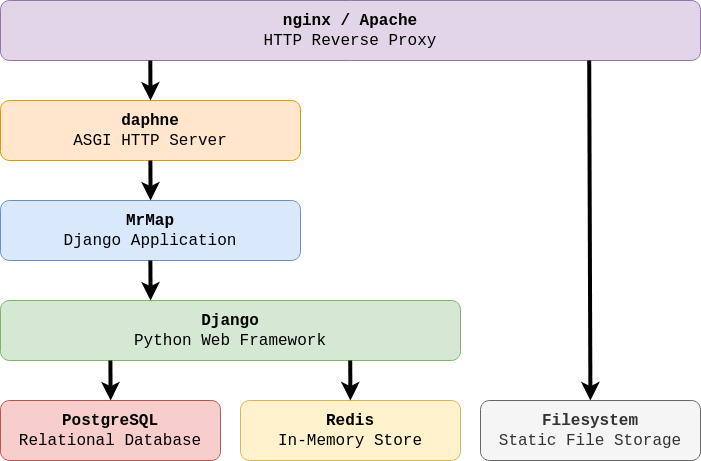
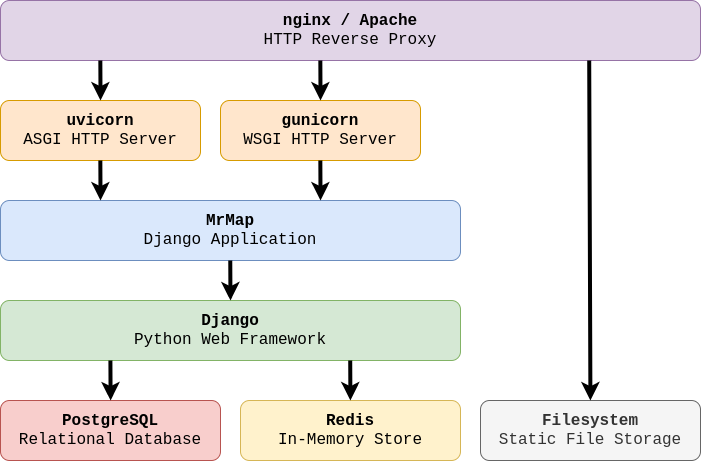
Update documentation

diff --git a/searchindex.js b/searchindex.js
@@ -1,1 +1,1 @@
-Search.setIndex({docnames:["development/communication","development/docker","development/getting-started","development/index","development/project-structure","development/pycharm-configuration","index","installation/0-requirements","installation/1-postgresql","installation/2-redis","installation/3-mapserver","installation/4-mrmap","installation/5-application-server","installation/6-http-server","installation/index","introduction/index"],envversion:{"sphinx.domains.c":1,"sphinx.domains.changeset":1,"sphinx.domains.cpp":1,"sphinx.domains.javascript":1,"sphinx.domains.math":2,"sphinx.domains.python":1,"sphinx.domains.rst":1,"sphinx.domains.std":1,sphinx:55},filenames:["development/communication.rst","development/docker.rst","development/getting-started.rst","development/index.rst","development/project-structure.rst","development/pycharm-configuration.rst","index.rst","installation/0-requirements.rst","installation/1-postgresql.rst","installation/2-redis.rst","installation/3-mapserver.rst","installation/4-mrmap.rst","installation/5-application-server.rst","installation/6-http-server.rst","installation/index.rst","introduction/index.rst"],objects:{},objnames:{},objtypes:{},terms:{"4bd5624546912082a1bd2709d0edc0685f5c7827a278d806a20cf6adea28":2,"case":[2,9,11,15],"catch":2,"default":[5,9,11,13],"function":[4,9,10,15],"goto":5,"import":2,"new":[2,14],"static":[11,13],"var":11,"while":15,For:[1,5,11,13],GIS:15,Not:6,The:[0,2,4,14,15],There:[0,2],Use:[5,9,10],Using:2,WFS:15,WITH:8,WMS:15,With:2,about:3,abov:11,accept:2,access:[1,15],account:2,activ:[2,11,12],adapt:2,add:[2,5,8],adding:11,address:[8,11,13],adjust:[11,12],admin:11,after:[1,11,13],aged:15,agg:10,all:[0,1,2,4,5,8,11,15],allow:2,alreadi:[5,9],also:[2,8,12],alwai:[1,2,4],among:0,ani:[2,14],anoth:13,anyon:2,api:[4,15],app:2,append:2,appli:5,applic:[1,6,10,11,12,13,14],approv:2,apt:[8,9,10,11,13],area:15,argument:2,arrang:4,aspect:15,assign:8,assist:14,assum:2,async:11,authent:[4,8],auto:2,autom:11,automat:2,avail:[11,13],avoid:2,background:11,base:[0,2,4],basic:2,beat:1,been:[2,14],befor:12,begin:11,behind:15,being:2,below:14,best:2,between:[2,15],bin:[2,11,12],binari:[2,11],bit:8,branch:[2,4],breadcrumb:4,bug:[0,3],build:[1,2,5,9],built:15,bundl:5,button:5,cach:[2,9],cairo:10,call:[1,4],can:[1,2,8,11,12],card:15,carryov:4,catalogu:15,caus:2,celeri:5,celery_bin:11,cert:13,certif:13,cgi:10,chang:[0,2,11,13],check:[2,11,12],choic:15,choos:8,chown:11,cipher:8,cli:9,click:5,client:8,clone:[2,4,11],close:2,code:[0,2,4],codebas:15,collect:[2,11],collectstat:11,com:[2,5,11],command:[2,8,11,14],common:2,commun:[2,11],compil:11,complet:[2,15],complex:15,complianc:2,compon:[4,14,15],compos:[2,5],compound:5,compress:[2,8],conf:[9,11,12,13],config:[11,12,13],configu:5,configur:[1,8,9,11],confirm:8,confiur:13,connect:[2,5,8],conninfo:8,consol:2,consult:14,contain:[2,15],contribut:[2,3],control:[2,14],convent:2,copi:[2,11,12,13],core:15,correctli:11,count:2,cours:2,cover:15,creat:[5,8,11,13],creep:15,crt:13,csw:[4,15],current:[2,4,8,15],curv:15,custom:4,cut:2,dai:13,dashboard:15,data:[10,11,13,15],databas:[2,7,11,14,15],dataset:15,db_set:2,deb10u1:8,debian:14,debug:11,definit:[11,12],delet:13,delta:2,depend:[1,7,11,14],deploi:14,describ:[2,5,15],descript:2,deseri:2,design:6,destin:[11,12],detail:[2,9,14],dev:[1,8,11],dev_set:[2,11,13],develop:[0,1,4,5,6,8,11,15],differ:11,direct:3,directli:2,directori:[2,5,11],discuss:[0,11],distribut:[9,14],distro:11,django:[2,4,7,11,15],django_set:2,django_settings_modul:1,doc:2,docker:2,document:[0,2,5,9,11,14,15],doe:[9,15],doesn:2,doing:2,done:[2,5,8],dont:[11,13],down:2,download:4,each:[2,4],editor:[4,15],effort:2,either:[2,4,11],emploi:9,enabl:[11,12,13],encompass:15,encourag:[2,3],encrypt:13,end:15,engin:1,enough:9,ensur:[2,8,9,10,15],entail:[8,9],enter:8,entertain:2,entir:2,entireti:4,entri:2,enumer:2,environ:[1,11,15],erron:2,error:[2,14],etc:[9,11,12,13],etf:15,exampl:[1,8,11,13,15],excess:2,execut:[2,5],exit:8,experi:2,extend:2,extens:8,fail:2,failur:2,familiar:2,fastcgi:10,favor:15,fcgiwrap:13,featur:[0,2,3,15],featuretyp:15,feel:2,field:2,file:[1,2,5,11,12,13],first:[1,2],focus:15,folder:[5,13,14],follow:[1,2,8,11,13,14,15],foremost:15,former:15,forum:0,framework:[2,15],free:15,freetyp:10,fribidi:10,from:[1,2,4,8,9,11],full:[1,11],further:9,gcc:11,gdal:[10,11],gener:[0,2,15],geo:10,geodata:15,geospati:15,get:[1,6,11],git:[2,11],github:[0,2,3,11],give:11,given:15,going:2,good:2,grant:8,group:[5,15],guid:[3,15],gunicorn:12,handl:10,happi:2,has:[1,2,8,11],hasn:2,have:[2,5,9,11,13,14],haven:2,help:[2,8,15],here:14,high:15,higher:9,hold:4,home:2,host:[8,13],host_nam:11,hostnam:11,hous:2,how:14,howev:[3,9],http:[1,2,5,11,12,13,14,15],http_or_ssl:13,http_proxi:11,hypermap:15,iconv:10,idea:2,ideal:0,identifi:2,ignor:2,indic:2,info:[1,11],inform:[11,15],infrastructur:15,input:10,inspir:15,instal:[1,4,6,15],instanc:[1,9,11,14],instruct:14,intent:11,interact:10,interf:2,interfac:[5,15],internet:13,introduct:6,ipaddress:13,issu:[0,2,3,8],its:[2,4,11,13,15],itself:11,j5brhraxflqsif0k:[8,11],jetbrain:5,job:11,jpeg:10,just:11,keep:[2,6],keepdb:2,kei:[9,13],keyout:13,kml:10,known:15,lack:15,layer:15,lean:15,learn:15,least:5,libcurl4:11,libpq:11,librari:[2,8],libssl:11,licens:[2,3],lightweight:2,like:[1,2],limit:15,line:2,link:2,linux:[1,2],listen:13,local:[2,8,9],localhost:[1,8,11],locat:11,log:[2,11],logging_set:2,login:[11,13],look:14,low:15,made:2,mai:[9,14],maintain:[2,3,14],major:2,make:[1,2,11],manag:[1,2,11,15],mani:15,manual:11,map:[10,15],mapbender2:15,mapserv:[2,14],mark:5,master:[2,4],mayb:15,member:0,memori:9,merg:2,messag:2,metadata:15,mib:2,might:[2,11,15],migrat:[2,11],mind:15,minimum:[1,7,8],minor:2,miss:2,mit:3,mkdir:[2,11],mkdoc:2,model:[2,4,15],modifi:[2,9],modul:2,monitor:[4,15],more:[3,11,15],most:[2,9,13,15],mrap:5,mrmap:[1,3,5,8,9,12,13,14],mrmap_celery_environ:11,mrmap_celery_servic:11,mrmap_daphne_servic:12,mrmap_nginx_ssl:13,much:15,must:0,mysql:8,name:[2,11,13],necessari:2,necessarili:15,need:[1,2,8,9,11,12,14,15],netbox:15,never:2,newkei:13,next:[5,9,11],nginx:15,node:13,none:2,normal:12,note:[2,8],notic:2,novemb:2,now:[2,8,11],object:2,occasion:2,occur:4,off:[2,8,15],offer:9,offici:[0,2,5],ogc:15,ogr:10,old:15,onc:2,onli:2,open:[5,10,11,13,15],openssl:[11,13],oper:2,opt:[5,11,12,13],option:[2,11],org:[2,15],organis:15,origin:2,other:[0,2,8,11,14,15],our:[2,13],out:[13,15],output:[10,12],outsid:14,overview:14,own:2,pack:2,packag:[2,4],page:[11,13],paramet:[1,2,11],particular:[4,14],pass:[1,2],password:[8,11],path:11,pbf:10,per:2,perform:2,persist:2,philosophi:6,pid:11,ping:9,pip:[2,11,12],place:[9,13],plain:13,platform:10,pleas:[2,3,5,8,9,14],plu:5,plugin:5,png:10,point:[5,11],pong:9,popular:[12,13],port:8,postgi:[8,10],postgr:8,postgresql:[2,7,14,15],potenti:2,ppython3:11,practic:15,prefer:[0,11],prefix:1,pretti:2,previou:2,prior:[0,2],privat:13,privileg:8,process:11,product:[2,14],proj:10,project:[2,3,5,11,14,15],prompt:[2,8],proper:15,properli:1,propos:2,protocol:8,provid:[2,4,8,14,15],proxi:[11,15],psql:8,publish:[10,15],pull:3,push:2,py3:2,python3:[2,11,15],python:[1,6,7,11,12],pythonhost:2,qualiti:4,queu:[7,9,15],quickli:15,quit:2,random:8,readm:2,reason:[2,15],rebuilt:2,receiv:2,recent:9,redi:[2,7,14,15],refer:[2,14],registr:15,registri:15,rel:15,relat:[2,8],releas:[2,4,9],relev:[2,4],rememb:2,remot:[2,8],replac:[8,15],repo:11,report:[0,3],repositori:2,repres:4,req:13,request:[0,3],requir:[2,9,11],resolv:2,resourc:15,rest:15,restart:13,result:2,reus:2,review:2,right:[1,5],risk:2,role:8,root:[2,5,8],rout:13,routin:11,rsa:13,rsvg:10,run:[11,15],runserv:[2,5,11],runserver_plu:11,sai:5,same:4,scope:15,script:2,search:5,section:[8,9,11,14],secur:[8,15],see:[1,3,5,9,11,13,15],select:[3,5],selfsign:13,serv:[2,12,13],server:[8,9,12,13,14,15],server_nam:13,servic:[2,4,5,15],set:[1,5,11,13,14,15],settings_dock:1,setup:[1,2,5,10],sever:0,shape:0,shapefil:10,ship:2,should:[1,2,4,5,11,13],sign:5,significantli:14,silenc:2,similar:15,simpl:6,simplifi:14,sinc:[2,15],site:13,skip:[2,9,11],slightli:2,snapshot:2,solut:15,some:15,somewhen:15,sos_serv:10,sourc:[2,5,9,10,11,12,15],spatial:10,specif:[1,2,15],specifi:15,split:12,ssl:[8,13],stabl:[2,4],stack:[6,14],stage:8,start:[5,6,11,12],statu:11,step:[2,11],store:9,straightforward:2,strive:15,strong:8,structur:2,stuff:15,style:2,sub_set:[2,11,13],submit:[0,3],subsect:4,substanti:0,success:[5,8],sudo:5,suffici:[9,11],suit:2,support:[0,2,6,8,10],sure:[1,2,11],svg_symbol:10,symlink:13,system:[2,4,12,14,15],systemctl:[11,12,13],systemd:[11,12],take:[2,14],task:[7,15],templat:4,tenet:15,test:[13,14,15],thei:2,them:2,thi:[2,8,9,11,14,15],thing:[2,15],thread:10,three:2,throughout:2,time:[1,2],tls_aes_256_gcm_sha384:8,tlsv1:8,todo:4,tool:2,total:2,track:2,traffic:13,trail:11,tree:5,two:2,txt:[2,11],type:8,typic:[2,15],under:[2,3,11,13],unfortun:14,upcom:2,updat:[2,8],upper:5,upstream:2,url:1,usag:2,use:[2,5,8,11,12,13,15],user:[1,3,4,5,8,11,15],usermod:5,usernam:8,uses:2,using:[2,8,11],util:[2,9,10,15],uwsgi:12,valu:9,vari:14,variabl:[1,2,11],venv:[2,11,12],verbos:2,veri:[2,3],verifi:2,vernacular:4,version:[1,2,6,7,10,11],via:2,view:[4,15],viewer:15,vim:13,virtualenv:[11,12],wai:2,want:[2,11,13],wcs_server:10,web:[10,13,15],webserv:[10,13],well:15,wfs:15,wfs_client:10,wfs_server:10,what:6,when:[2,15],where:2,wherev:2,which:[2,5,9,15],whl:2,who:2,wish:9,within:2,without:[2,15],wms:[2,15],wms_client:10,wms_server:10,work:[2,8,14],worker:11,wsgi:[2,12,15],www:[5,11],x509:13,yaml:1,yet:2,yml:[1,2],you:[1,2,5,8,9,11,12,13],your:[2,5,8,9,11,13,14,15],yourself:11,youruseraccount:2},titles:["Communication","Docker compose usage","Getting Started","Development","Project Structure","Pycharm configuration","Welcome to MrMap","Requirements","1. PostgreSQL","2. Redis","3. Mapserver","4. MrMap Installation","5. daphne","6. Nginx","Installation","Introduction"],titleterms:{Not:15,app:4,applic:15,beat:11,celeri:[1,11],command:1,commit:2,commun:0,compos:1,configur:[2,5,10,12,13],content:6,creat:2,creation:8,daphn:12,databas:8,debian:[8,9,10,11,13],depend:2,design:15,develop:[2,3],django:1,docker:[1,5],enabl:2,environ:2,everyth:11,fork:2,get:[2,15],hook:2,initi:11,instal:[2,5,8,9,10,11,12,13,14],introduct:15,keep:15,map:11,mapserv:10,migrat:1,mrmap:[2,4,6,11,15],need:5,nginx:13,packag:11,philosophi:15,post:1,postgresql:8,pre:2,project:4,pull:2,pycharm:5,python:[2,15],redi:9,repo:2,request:2,requir:7,run:[1,2],runserv:1,server:2,servic:[1,8,9,10,11,12,13],set:2,setup:11,simpl:15,softwar:5,stack:15,start:[1,2,15],statu:[8,9,10,12,13],step:1,structur:4,submit:2,support:15,system:11,tabl:6,test:[2,11],usag:1,verifi:[8,9,10,12,13],version:15,virtual:2,welcom:6,what:15,work:11,worker:1}})
+Search.setIndex({docnames:["development/communication","development/docker","development/getting-started","development/index","development/project-structure","development/pycharm-configuration","index","installation/0-requirements","installation/1-postgresql","installation/2-redis","installation/3-mapserver","installation/4-mrmap","installation/5-application-server","installation/6-http-server","installation/index","introduction/index"],envversion:{"sphinx.domains.c":1,"sphinx.domains.changeset":1,"sphinx.domains.cpp":1,"sphinx.domains.javascript":1,"sphinx.domains.math":2,"sphinx.domains.python":1,"sphinx.domains.rst":1,"sphinx.domains.std":1,sphinx:55},filenames:["development/communication.rst","development/docker.rst","development/getting-started.rst","development/index.rst","development/project-structure.rst","development/pycharm-configuration.rst","index.rst","installation/0-requirements.rst","installation/1-postgresql.rst","installation/2-redis.rst","installation/3-mapserver.rst","installation/4-mrmap.rst","installation/5-application-server.rst","installation/6-http-server.rst","installation/index.rst","introduction/index.rst"],objects:{},objnames:{},objtypes:{},terms:{"4bd5624546912082a1bd2709d0edc0685f5c7827a278d806a20cf6adea28":2,"case":[2,9,11,15],"catch":2,"default":[5,9,11,13],"function":[4,9,10,15],"goto":5,"import":2,"new":[2,14],"static":[11,13],"var":11,"while":15,For:[1,5,11,13],GIS:15,Not:6,The:[0,2,4,14,15],There:[0,2],Use:[5,9,10],Using:2,WFS:15,WITH:8,WMS:15,With:2,about:3,abov:11,accept:2,access:[1,15],account:2,activ:[2,11,12],adapt:2,add:[2,5,8],adding:11,address:[8,11,13],adjust:[11,12],admin:11,after:[1,11,13],aged:15,agg:10,all:[0,1,2,4,5,8,11,15],allow:2,alreadi:[5,9],also:[2,8,12],alwai:[1,2,4],among:0,ani:[2,14],anoth:13,anyon:2,api:[4,15],app:2,append:2,appli:5,applic:[1,6,10,11,13,14],approv:2,apt:[8,9,10,11,13],area:15,argument:2,arrang:4,aspect:15,assign:8,assist:14,assum:2,async:11,authent:[4,8],auto:2,autom:11,automat:2,avail:[11,13],avoid:2,background:11,base:[0,2,4],basic:2,beat:1,been:[2,14],befor:12,begin:11,behind:15,being:2,below:14,best:2,between:[2,15],bin:[2,11,12],binari:[2,11],bit:8,branch:[2,4],breadcrumb:4,bug:[0,3],build:[1,2,5,9],built:15,bundl:5,button:5,cach:[2,9],cairo:10,call:[1,4],can:[1,2,8,11,12],card:15,carryov:4,catalogu:15,caus:2,celeri:5,celery_bin:11,cert:13,certif:13,cgi:10,chang:[0,2,11,13],check:[2,11,12],choic:15,choos:8,chown:11,cipher:8,cli:9,click:5,client:8,clone:[2,4,11],close:2,code:[0,2,4],codebas:15,collect:[2,11],collectstat:11,com:[2,5,11],command:[2,8,11,14],common:2,commun:[2,11],compil:11,complet:[2,15],complex:15,complianc:2,compon:[4,14,15],compos:[2,5],compound:5,compress:[2,8],conf:[9,11,12,13],config:[11,12,13],configu:5,configur:[1,8,9,11],confirm:8,confiur:13,connect:[2,5,8],conninfo:8,consol:2,consult:14,contain:[2,15],contribut:[2,3],control:[2,14],convent:2,copi:[2,11,12,13],core:15,correctli:11,count:2,cours:2,cover:15,creat:[5,8,11,13],creep:15,crt:13,csw:[4,15],current:[2,4,8,15],curv:15,custom:4,cut:2,dai:13,daphn:12,dashboard:15,data:[10,11,13,15],databas:[2,7,11,14,15],dataset:15,db_set:2,deb10u1:8,debian:14,debug:11,definit:[11,12],delet:13,delta:2,depend:[1,7,11,14],deploi:14,describ:[2,5,15],descript:2,deseri:2,design:6,destin:[11,12],detail:[2,9,14],dev:[1,8,11],dev_set:[2,11,13],develop:[0,1,4,5,6,8,11,15],differ:11,direct:3,directli:2,directori:[2,5,11],discuss:[0,11],distribut:[9,14],distro:11,django:[2,4,7,11,15],django_set:2,django_settings_modul:1,doc:2,docker:2,document:[0,2,5,9,11,14,15],doe:[9,15],doesn:2,doing:2,done:[2,5,8],dont:[11,13],down:2,download:4,each:[2,4],editor:[4,15],effort:2,either:[2,4,11],emploi:9,enabl:[11,12,13],encompass:15,encourag:[2,3],encrypt:13,end:15,engin:1,enough:9,ensur:[2,8,9,10,15],entail:[8,9],enter:8,entertain:2,entir:2,entireti:4,entri:2,enumer:2,environ:[1,11,15],erron:2,error:[2,14],etc:[9,11,12,13],etf:15,exampl:[1,8,11,13,15],excess:2,execut:[2,5],exit:8,experi:2,extend:2,extens:8,fail:2,failur:2,familiar:2,fastcgi:10,favor:15,fcgiwrap:13,featur:[0,2,3,15],featuretyp:15,feel:2,field:2,file:[1,2,5,11,12,13],first:[1,2],focus:15,folder:[5,13,14],follow:[1,2,8,11,13,14,15],foremost:15,former:15,forum:0,framework:[2,15],free:15,freetyp:10,fribidi:10,from:[1,2,4,8,9,11],full:[1,11],further:9,gcc:11,gdal:[10,11],gener:[0,2,15],geo:10,geodata:15,geospati:15,get:[1,6,11],git:[2,11],github:[0,2,3,11],give:11,given:15,going:2,good:2,grant:8,group:[5,15],guid:[3,15],gunicorn:12,handl:10,happi:2,has:[1,2,8,11],hasn:2,have:[2,5,9,11,13,14],haven:2,help:[2,8,15],here:14,high:15,higher:9,hold:4,home:2,host:[8,13],host_nam:11,hostnam:11,hous:2,how:14,howev:[3,9],http:[1,2,5,11,13,14,15],http_or_ssl:13,http_proxi:11,hypermap:15,iconv:10,idea:2,ideal:0,identifi:2,ignor:2,indic:2,info:[1,11],inform:[11,15],infrastructur:15,input:10,inspir:15,instal:[1,4,6,12,15],instanc:[1,9,11,14],instruct:14,intent:11,interact:10,interf:2,interfac:[5,15],internet:13,introduct:6,ipaddress:13,issu:[0,2,3,8],its:[2,4,11,13,15],itself:11,j5brhraxflqsif0k:[8,11],jetbrain:5,job:11,jpeg:10,just:11,keep:[2,6],keepdb:2,kei:[9,13],keyout:13,kml:10,known:15,lack:15,layer:15,lean:15,learn:15,least:5,libcurl4:11,libpq:11,librari:[2,8],libssl:11,licens:[2,3],lightweight:2,like:[1,2],limit:15,line:2,link:2,linux:[1,2],listen:13,local:[2,8,9],localhost:[1,8,11],locat:11,log:[2,11],logging_set:2,login:[11,13],look:14,low:15,made:2,mai:[9,14],maintain:[2,3,14],major:2,make:[1,2,11],manag:[1,2,11,15],mani:15,manual:11,map:[10,15],mapbender2:15,mapserv:[2,14],mark:5,master:[2,4],mayb:15,member:0,memori:9,merg:2,messag:2,metadata:15,mib:2,might:[2,11,15],migrat:[2,11],mind:15,minimum:[1,7,8],minor:2,miss:2,mit:3,mkdir:[2,11],mkdoc:2,model:[2,4,15],modifi:[2,9],modul:2,monitor:[4,15],more:[3,11,15],most:[2,9,13,15],mrap:5,mrmap:[1,3,5,8,9,12,13,14],mrmap_celery_environ:11,mrmap_celery_servic:11,mrmap_gunicorn_servic:12,mrmap_nginx_ssl:13,mrmap_uvicorn_servic:12,much:15,must:0,mysql:8,name:[2,11,13],necessari:2,necessarili:15,need:[1,2,8,9,11,12,14,15],netbox:15,never:2,newkei:13,next:[5,9,11],nginx:15,node:13,none:2,note:[2,8],notic:2,novemb:2,now:[2,8,11],object:2,occasion:2,occur:4,off:[2,8,15],offer:9,offici:[0,2,5],ogc:15,ogr:10,old:15,onc:2,onli:2,open:[5,10,11,13,15],openssl:[11,13],oper:2,opt:[5,11,12,13],option:[2,11],org:[2,15],organis:15,origin:2,other:[0,2,8,11,12,14,15],our:[2,13],out:[13,15],output:[10,12],outsid:14,overview:14,own:2,pack:2,packag:[2,4],page:[11,13],paramet:[1,2,11],particular:[4,14],pass:[1,2],password:[8,11],path:11,pbf:10,per:2,perform:2,persist:2,philosophi:6,pid:11,ping:9,pip:[2,11,12],place:[9,13],plain:13,platform:10,pleas:[2,3,5,8,9,14],plu:5,plugin:5,png:10,point:[5,11],pong:9,popular:13,port:8,postgi:[8,10],postgr:8,postgresql:[2,7,14,15],potenti:2,ppython3:11,practic:15,prefer:[0,11],prefix:1,pretti:2,previou:2,prior:[0,2],privat:13,privileg:8,process:11,product:[2,14],proj:10,project:[2,3,5,11,14,15],prompt:[2,8],proper:15,properli:1,propos:2,protocol:8,provid:[2,4,8,14,15],proxi:[11,15],psql:8,publish:[10,15],pull:3,push:2,py3:2,python3:[2,11,15],python:[1,6,7,11,12],pythonhost:2,qualiti:4,queu:[7,9,15],quickli:15,quit:2,random:8,readm:2,reason:[2,15],rebuilt:2,receiv:2,recent:9,redi:[2,7,14,15],refer:[2,14],registr:15,registri:15,rel:15,relat:[2,8],releas:[2,4,9],relev:[2,4],rememb:2,remot:[2,8],replac:[8,15],repo:11,report:[0,3],repositori:2,repres:4,req:13,request:[0,3],requir:[2,9,11],resolv:2,resourc:15,rest:15,restart:13,result:2,reus:2,review:2,right:[1,5],risk:2,role:8,root:[2,5,8],rout:13,routin:11,rsa:13,rsvg:10,run:[11,15],runserv:[2,5,11],runserver_plu:11,sai:5,same:4,scope:15,script:2,search:5,section:[8,9,11,14],secur:[8,15],see:[1,3,5,9,11,13,15],select:[3,5],selfsign:13,serv:[2,12,13],server:[8,9,13,14,15],server_nam:13,servic:[2,4,5,15],set:[1,5,11,13,14,15],settings_dock:1,setup:[1,2,5,10],sever:0,shape:0,shapefil:10,ship:2,should:[1,2,4,5,11,13],sign:5,significantli:14,silenc:2,similar:15,simpl:6,simplifi:14,sinc:[2,15],site:13,skip:[2,9,11],slightli:2,snapshot:2,solut:15,some:15,somewhen:15,sos_serv:10,sourc:[2,5,9,10,11,12,15],spatial:10,specif:[1,2,15],specifi:15,ssl:[8,13],stabl:[2,4],stack:[6,14],stage:8,start:[5,6,11,12],statu:11,step:[2,11],store:9,straightforward:2,strive:15,strong:8,structur:2,stuff:15,style:2,sub_set:[2,11,13],submit:[0,3],subsect:4,substanti:0,success:[5,8],sudo:5,suffici:[9,11],suit:2,support:[0,2,6,8,10],sure:[1,2,11],svg_symbol:10,symlink:13,system:[2,4,12,14,15],systemctl:[11,12,13],systemd:[11,12],take:[2,14],task:[7,15],templat:4,tenet:15,test:[13,14,15],thei:2,them:2,thi:[2,8,9,11,14,15],thing:[2,15],thread:10,three:2,throughout:2,time:[1,2],tls_aes_256_gcm_sha384:8,tlsv1:8,todo:4,tool:2,total:2,track:2,traffic:13,trail:11,tree:5,two:2,txt:[2,11],type:8,typic:[2,15],under:[2,3,11,13],unfortun:14,upcom:2,updat:[2,8],upper:5,upstream:2,url:1,usag:2,use:[2,5,8,11,12,13,15],user:[1,3,4,5,8,11,15],usermod:5,usernam:8,uses:2,using:[2,8,11],util:[2,9,10,15],uvicorn:12,uwsgi:12,valu:9,vari:14,variabl:[1,2,11],venv:[2,11,12],verbos:2,veri:[2,3],verifi:2,vernacular:4,version:[1,2,6,7,10,11],via:2,view:[4,15],viewer:15,vim:13,virtualenv:[11,12],wai:2,want:[2,11,13],wcs_server:10,web:[10,13,15],webserv:[10,13],websocket:12,well:15,wfs:15,wfs_client:10,wfs_server:10,what:6,when:[2,15],where:2,wherev:2,which:[2,5,9,15],whl:2,who:2,wish:9,within:2,without:[2,15],wms:[2,15],wms_client:10,wms_server:10,work:[2,8,14],worker:11,wsgi:[2,15],www:[5,11],x509:13,yaml:1,yet:2,yml:[1,2],you:[1,2,5,8,9,11,12,13],your:[2,5,8,9,11,13,14,15],yourself:11,youruseraccount:2},titles:["Communication","Docker compose usage","Getting Started","Development","Project Structure","Pycharm configuration","Welcome to MrMap","Requirements","1. PostgreSQL","2. Redis","3. Mapserver","4. MrMap Installation","5. Application server","6. Nginx","Installation","Introduction"],titleterms:{Not:15,app:4,applic:[12,15],asgi:12,beat:11,celeri:[1,11],command:1,commit:2,commun:0,compos:1,configur:[2,5,10,12,13],content:6,creat:2,creation:8,databas:8,debian:[8,9,10,11,13],depend:2,design:15,develop:[2,3],django:1,docker:[1,5],enabl:2,environ:2,everyth:11,fork:2,get:[2,15],hook:2,initi:11,instal:[2,5,8,9,10,11,13,14],introduct:15,keep:15,map:11,mapserv:10,migrat:1,mrmap:[2,4,6,11,15],need:5,nginx:13,packag:11,philosophi:15,post:1,postgresql:8,pre:2,project:4,pull:2,pycharm:5,python:[2,15],redi:9,repo:2,request:2,requir:7,run:[1,2],runserv:1,server:[2,12],servic:[1,8,9,10,11,12,13],set:2,setup:11,simpl:15,softwar:5,stack:15,start:[1,2,15],statu:[8,9,10,12,13],step:1,structur:4,submit:2,support:15,system:11,tabl:6,test:[2,11],usag:1,verifi:[8,9,10,12,13],version:15,virtual:2,welcom:6,what:15,work:11,worker:1,wsgi:12}})

diff --git a/installation/5-application-server.html b/installation/5-application-server.html
@@ -7,7 +7,7 @@
   
   <meta name="viewport" content="width=device-width, initial-scale=1.0" />
   
-  <title>5. daphne &mdash; MrMap v0.0.0 documentation</title>
+  <title>5. Application server &mdash; MrMap v0.0.0 documentation</title>
   
 
   
@@ -93,10 +93,17 @@
 <li class="toctree-l2"><a class="reference internal" href="2-redis.html">2. Redis</a></li>
 <li class="toctree-l2"><a class="reference internal" href="3-mapserver.html">3. Mapserver</a></li>
 <li class="toctree-l2"><a class="reference internal" href="4-mrmap.html">4. MrMap Installation</a></li>
-<li class="toctree-l2 current"><a class="current reference internal" href="#">5. daphne</a><ul>
-<li class="toctree-l3"><a class="reference internal" href="#installation">Installation</a></li>
-<li class="toctree-l3"><a class="reference internal" href="#configure">Configure</a></li>
-<li class="toctree-l3"><a class="reference internal" href="#verify-service-status">Verify Service Status</a></li>
+<li class="toctree-l2 current"><a class="current reference internal" href="#">5. Application server</a><ul>
+<li class="toctree-l3"><a class="reference internal" href="#wsgi-application-server">wsgi application server</a><ul>
+<li class="toctree-l4"><a class="reference internal" href="#configure">Configure</a></li>
+<li class="toctree-l4"><a class="reference internal" href="#verify-service-status">Verify Service Status</a></li>
+</ul>
+</li>
+<li class="toctree-l3"><a class="reference internal" href="#asgi-application-server">asgi application server</a><ul>
+<li class="toctree-l4"><a class="reference internal" href="#id1">Configure</a></li>
+<li class="toctree-l4"><a class="reference internal" href="#id2">Verify Service Status</a></li>
+</ul>
+</li>
 </ul>
 </li>
 <li class="toctree-l2"><a class="reference internal" href="6-http-server.html">6. Nginx</a></li>
@@ -153,7 +160,7 @@
         
           <li><a href="index.html">Installation</a> &raquo;</li>
         
-      <li>5. daphne</li>
+      <li>5. Application server</li>
     
     
       <li class="wy-breadcrumbs-aside">
@@ -172,46 +179,87 @@
           <div role="main" class="document" itemscope="itemscope" itemtype="http://schema.org/Article">
            <div itemprop="articleBody">
             
-  <div class="section" id="daphne">
-<span id="installation-5-application-server"></span><h1>5. daphne<a class="headerlink" href="#daphne" title="Permalink to this headline">¶</a></h1>
-<div class="section" id="installation">
-<h2>Installation<a class="headerlink" href="#installation" title="Permalink to this headline">¶</a></h2>
-<p>We use <a class="reference external" href="https://github.com/django/daphne">daphne server</a> for serving the application.</p>
+  <div class="section" id="application-server">
+<span id="installation-5-application-server"></span><h1>5. Application server<a class="headerlink" href="#application-server" title="Permalink to this headline">¶</a></h1>
+<div class="section" id="wsgi-application-server">
+<h2>wsgi application server<a class="headerlink" href="#wsgi-application-server" title="Permalink to this headline">¶</a></h2>
+<p>We use <a class="reference external" href="https://github.com/benoitc/gunicorn">gunicorn server</a> for serving the wsgi application.</p>
 <div class="admonition note">
 <p class="first admonition-title">Note</p>
-<p class="last">You can also split into serving normal http by use popular wsgi application servers such as <a class="reference external" href="https://gunicorn.org">gunicorn</a> or <a class="reference external" href="https://uwsgi-docs.readthedocs.io/en/latest/">uWSGI</a> .</p>
+<p class="last">You can also use other wsgi application servers such as <a class="reference external" href="https://uwsgi-docs.readthedocs.io/en/latest/">uWSGI</a> .</p>
 </div>
 <ol class="arabic simple">
-<li>If you use a virtualenv, activate it before installing daphne</li>
+<li>If you use a virtualenv, activate it before installing gunicorn</li>
 </ol>
 <div class="highlight-console notranslate"><div class="highlight"><pre><span></span><span class="gp">$</span> <span class="nb">source</span> /opt/mrmap/venv/bin/activate
-<span class="gp">(venv) $</span> python -m pip install daphne
+<span class="gp">(venv) $</span> python -m pip install gunicorn
 </pre></div>
 </div>
-</div>
 <div class="section" id="configure">
-<h2>Configure<a class="headerlink" href="#configure" title="Permalink to this headline">¶</a></h2>
+<h3>Configure<a class="headerlink" href="#configure" title="Permalink to this headline">¶</a></h3>
 <p>1. Adjust if needed and copy the config files to their destination:
-We need a <a class="reference external" href="https://github.com/mrmap-community/mrmap/blob/master/install/confs/mrmap_daphne_service">service definition for daphne</a></p>
+We need a <a class="reference external" href="https://github.com/mrmap-community/mrmap/blob/master/install/confs/mrmap_gunicorn_service">service definition for gunicorn</a></p>
 <div class="highlight-console notranslate"><div class="highlight"><pre><span></span><span class="gp">#</span> copy daphne systemd config <span class="o">(</span>service file<span class="o">)</span>
-<span class="gp">$</span> cp -a /opt/mrmap/install/confs/mrmap_daphne_service /etc/systemd/system/daphne.service
+<span class="gp">$</span> cp -a /opt/mrmap/install/confs/mrmap_gunicorn_service /etc/systemd/system/gunicorn.service
 </pre></div>
 </div>
 <ol class="arabic simple" start="3">
-<li>Activate and start daphne service</li>
+<li>Activate and start gunicorn service</li>
 </ol>
-<div class="highlight-console notranslate"><div class="highlight"><pre><span></span><span class="gp">$</span> systemctl <span class="nb">enable</span> daphne
-<span class="gp">$</span> systemctl start daphne
+<div class="highlight-console notranslate"><div class="highlight"><pre><span></span><span class="gp">$</span> systemctl <span class="nb">enable</span> gunicorn
+<span class="gp">$</span> systemctl start gunicorn
 </pre></div>
 </div>
 </div>
 <div class="section" id="verify-service-status">
-<h2>Verify Service Status<a class="headerlink" href="#verify-service-status" title="Permalink to this headline">¶</a></h2>
+<h3>Verify Service Status<a class="headerlink" href="#verify-service-status" title="Permalink to this headline">¶</a></h3>
 <ol class="arabic simple">
 <li>Check the output of</li>
 </ol>
-<div class="highlight-console notranslate"><div class="highlight"><pre><span></span><span class="gp">$</span> systemctl status daphne
+<div class="highlight-console notranslate"><div class="highlight"><pre><span></span><span class="gp">$</span> systemctl status gunicorn
 </pre></div>
+</div>
+</div>
+</div>
+<div class="section" id="asgi-application-server">
+<h2>asgi application server<a class="headerlink" href="#asgi-application-server" title="Permalink to this headline">¶</a></h2>
+<p>We use <a class="reference external" href="https://github.com/encode/uvicorn">uvicorn server</a> for serving the asgi application.</p>
+<div class="admonition note">
+<p class="first admonition-title">Note</p>
+<p class="last">You can also use other asgi application servers such as <a class="reference external" href="https://github.com/django/daphne">daphne</a> .</p>
+</div>
+<ol class="arabic simple">
+<li>If you use a virtualenv, activate it before installing gunicorn</li>
+</ol>
+<div class="highlight-console notranslate"><div class="highlight"><pre><span></span><span class="gp">$</span> <span class="nb">source</span> /opt/mrmap/venv/bin/activate
+<span class="gp">(venv) $</span> python -m pip install uvicorn
+<span class="gp">(venv) $</span> python -m pip install websockets
+</pre></div>
+</div>
+<div class="section" id="id1">
+<h3>Configure<a class="headerlink" href="#id1" title="Permalink to this headline">¶</a></h3>
+<p>1. Adjust if needed and copy the config files to their destination:
+We need a <a class="reference external" href="https://github.com/mrmap-community/mrmap/blob/master/install/confs/mrmap_uvicorn_service">service definition for uvicorn</a></p>
+<div class="highlight-console notranslate"><div class="highlight"><pre><span></span><span class="gp">#</span> copy daphne systemd config <span class="o">(</span>service file<span class="o">)</span>
+<span class="gp">$</span> cp -a /opt/mrmap/install/confs/mrmap_uvicorn_service /etc/systemd/system/uvicorn.service
+</pre></div>
+</div>
+<ol class="arabic simple" start="3">
+<li>Activate and start uvicorn service</li>
+</ol>
+<div class="highlight-console notranslate"><div class="highlight"><pre><span></span><span class="gp">$</span> systemctl <span class="nb">enable</span> uvicorn
+<span class="gp">$</span> systemctl start uvicorn
+</pre></div>
+</div>
+</div>
+<div class="section" id="id2">
+<h3>Verify Service Status<a class="headerlink" href="#id2" title="Permalink to this headline">¶</a></h3>
+<ol class="arabic simple">
+<li>Check the output of</li>
+</ol>
+<div class="highlight-console notranslate"><div class="highlight"><pre><span></span><span class="gp">$</span> systemctl status uvicorn
+</pre></div>
+</div>
 </div>
 </div>
 </div>

diff --git a/installation/6-http-server.html b/installation/6-http-server.html
@@ -40,7 +40,7 @@
     <link rel="index" title="Index" href="../genindex.html" />
     <link rel="search" title="Search" href="../search.html" />
     <link rel="next" title="Development" href="../development/index.html" />
-    <link rel="prev" title="5. daphne" href="5-application-server.html" /> 
+    <link rel="prev" title="5. Application server" href="5-application-server.html" /> 
 </head>
 
 <body class="wy-body-for-nav">
@@ -93,7 +93,7 @@
 <li class="toctree-l2"><a class="reference internal" href="2-redis.html">2. Redis</a></li>
 <li class="toctree-l2"><a class="reference internal" href="3-mapserver.html">3. Mapserver</a></li>
 <li class="toctree-l2"><a class="reference internal" href="4-mrmap.html">4. MrMap Installation</a></li>
-<li class="toctree-l2"><a class="reference internal" href="5-application-server.html">5. daphne</a></li>
+<li class="toctree-l2"><a class="reference internal" href="5-application-server.html">5. Application server</a></li>
 <li class="toctree-l2 current"><a class="current reference internal" href="#">6. Nginx</a><ul>
 <li class="toctree-l3"><a class="reference internal" href="#install">Install</a><ul>
 <li class="toctree-l4"><a class="reference internal" href="#debian">Debian</a></li>
@@ -253,7 +253,7 @@ is another configuration file for plain HTTP in the conf folder.</p>
           <footer>
     <div class="rst-footer-buttons" role="navigation" aria-label="footer navigation">
         <a href="../development/index.html" class="btn btn-neutral float-right" title="Development" accesskey="n" rel="next">Next <span class="fa fa-arrow-circle-right" aria-hidden="true"></span></a>
-        <a href="5-application-server.html" class="btn btn-neutral float-left" title="5. daphne" accesskey="p" rel="prev"><span class="fa fa-arrow-circle-left" aria-hidden="true"></span> Previous</a>
+        <a href="5-application-server.html" class="btn btn-neutral float-left" title="5. Application server" accesskey="p" rel="prev"><span class="fa fa-arrow-circle-left" aria-hidden="true"></span> Previous</a>
     </div>
 
   <hr/>

diff --git a/installation/4-mrmap.html b/installation/4-mrmap.html
@@ -39,7 +39,7 @@
     
     <link rel="index" title="Index" href="../genindex.html" />
     <link rel="search" title="Search" href="../search.html" />
-    <link rel="next" title="5. daphne" href="5-application-server.html" />
+    <link rel="next" title="5. Application server" href="5-application-server.html" />
     <link rel="prev" title="3. Mapserver" href="3-mapserver.html" /> 
 </head>
 
@@ -102,7 +102,7 @@
 <li class="toctree-l3"><a class="reference internal" href="#setup-system-services-for-celery-and-celery-beat">Setup system services for celery and celery beat</a></li>
 </ul>
 </li>
-<li class="toctree-l2"><a class="reference internal" href="5-application-server.html">5. daphne</a></li>
+<li class="toctree-l2"><a class="reference internal" href="5-application-server.html">5. Application server</a></li>
 <li class="toctree-l2"><a class="reference internal" href="6-http-server.html">6. Nginx</a></li>
 </ul>
 </li>
@@ -343,7 +343,7 @@ If your installation directory differs from /opt/ you have to change the working
           </div>
           <footer>
     <div class="rst-footer-buttons" role="navigation" aria-label="footer navigation">
-        <a href="5-application-server.html" class="btn btn-neutral float-right" title="5. daphne" accesskey="n" rel="next">Next <span class="fa fa-arrow-circle-right" aria-hidden="true"></span></a>
+        <a href="5-application-server.html" class="btn btn-neutral float-right" title="5. Application server" accesskey="n" rel="next">Next <span class="fa fa-arrow-circle-right" aria-hidden="true"></span></a>
         <a href="3-mapserver.html" class="btn btn-neutral float-left" title="3. Mapserver" accesskey="p" rel="prev"><span class="fa fa-arrow-circle-left" aria-hidden="true"></span> Previous</a>
     </div>
 

diff --git a/installation/1-postgresql.html b/installation/1-postgresql.html
@@ -101,7 +101,7 @@
 <li class="toctree-l2"><a class="reference internal" href="2-redis.html">2. Redis</a></li>
 <li class="toctree-l2"><a class="reference internal" href="3-mapserver.html">3. Mapserver</a></li>
 <li class="toctree-l2"><a class="reference internal" href="4-mrmap.html">4. MrMap Installation</a></li>
-<li class="toctree-l2"><a class="reference internal" href="5-application-server.html">5. daphne</a></li>
+<li class="toctree-l2"><a class="reference internal" href="5-application-server.html">5. Application server</a></li>
 <li class="toctree-l2"><a class="reference internal" href="6-http-server.html">6. Nginx</a></li>
 </ul>
 </li>

diff --git a/installation/0-requirements.html b/installation/0-requirements.html
@@ -93,7 +93,7 @@
 <li class="toctree-l2"><a class="reference internal" href="2-redis.html">2. Redis</a></li>
 <li class="toctree-l2"><a class="reference internal" href="3-mapserver.html">3. Mapserver</a></li>
 <li class="toctree-l2"><a class="reference internal" href="4-mrmap.html">4. MrMap Installation</a></li>
-<li class="toctree-l2"><a class="reference internal" href="5-application-server.html">5. daphne</a></li>
+<li class="toctree-l2"><a class="reference internal" href="5-application-server.html">5. Application server</a></li>
 <li class="toctree-l2"><a class="reference internal" href="6-http-server.html">6. Nginx</a></li>
 </ul>
 </li>

diff --git a/installation/index.html b/installation/index.html
@@ -93,7 +93,7 @@
 <li class="toctree-l2"><a class="reference internal" href="2-redis.html">2. Redis</a></li>
 <li class="toctree-l2"><a class="reference internal" href="3-mapserver.html">3. Mapserver</a></li>
 <li class="toctree-l2"><a class="reference internal" href="4-mrmap.html">4. MrMap Installation</a></li>
-<li class="toctree-l2"><a class="reference internal" href="5-application-server.html">5. daphne</a></li>
+<li class="toctree-l2"><a class="reference internal" href="5-application-server.html">5. Application server</a></li>
 <li class="toctree-l2"><a class="reference internal" href="6-http-server.html">6. Nginx</a></li>
 </ul>
 </li>

diff --git a/installation/2-redis.html b/installation/2-redis.html
@@ -100,7 +100,7 @@
 </li>
 <li class="toctree-l2"><a class="reference internal" href="3-mapserver.html">3. Mapserver</a></li>
 <li class="toctree-l2"><a class="reference internal" href="4-mrmap.html">4. MrMap Installation</a></li>
-<li class="toctree-l2"><a class="reference internal" href="5-application-server.html">5. daphne</a></li>
+<li class="toctree-l2"><a class="reference internal" href="5-application-server.html">5. Application server</a></li>
 <li class="toctree-l2"><a class="reference internal" href="6-http-server.html">6. Nginx</a></li>
 </ul>
 </li>

diff --git a/installation/3-mapserver.html b/installation/3-mapserver.html
@@ -101,7 +101,7 @@
 </ul>
 </li>
 <li class="toctree-l2"><a class="reference internal" href="4-mrmap.html">4. MrMap Installation</a></li>
-<li class="toctree-l2"><a class="reference internal" href="5-application-server.html">5. daphne</a></li>
+<li class="toctree-l2"><a class="reference internal" href="5-application-server.html">5. Application server</a></li>
 <li class="toctree-l2"><a class="reference internal" href="6-http-server.html">6. Nginx</a></li>
 </ul>
 </li>
